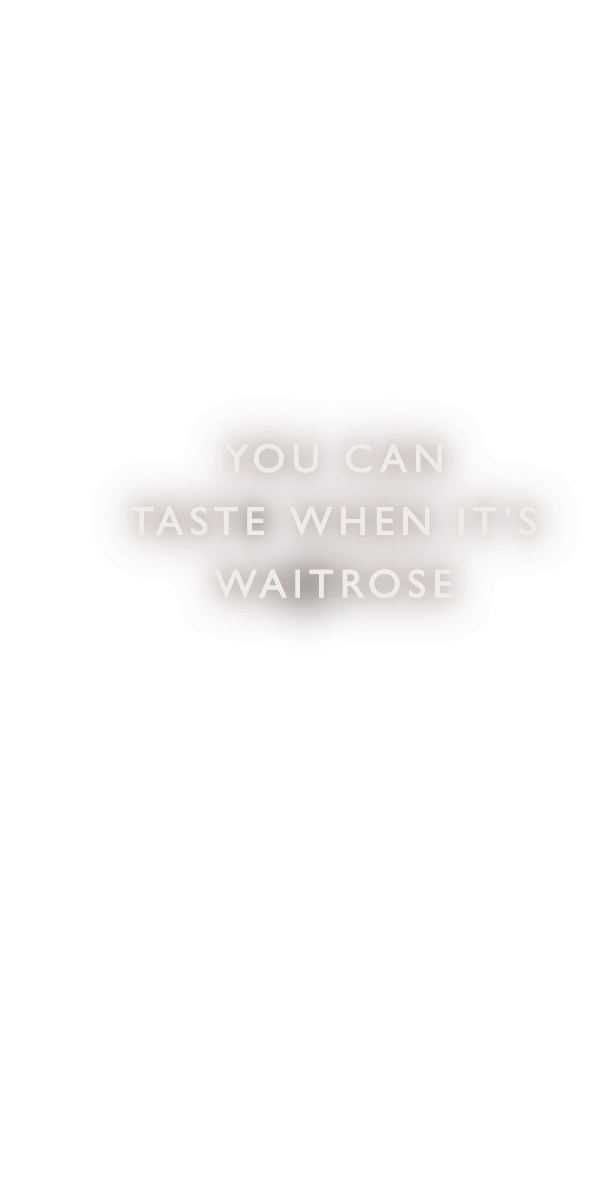
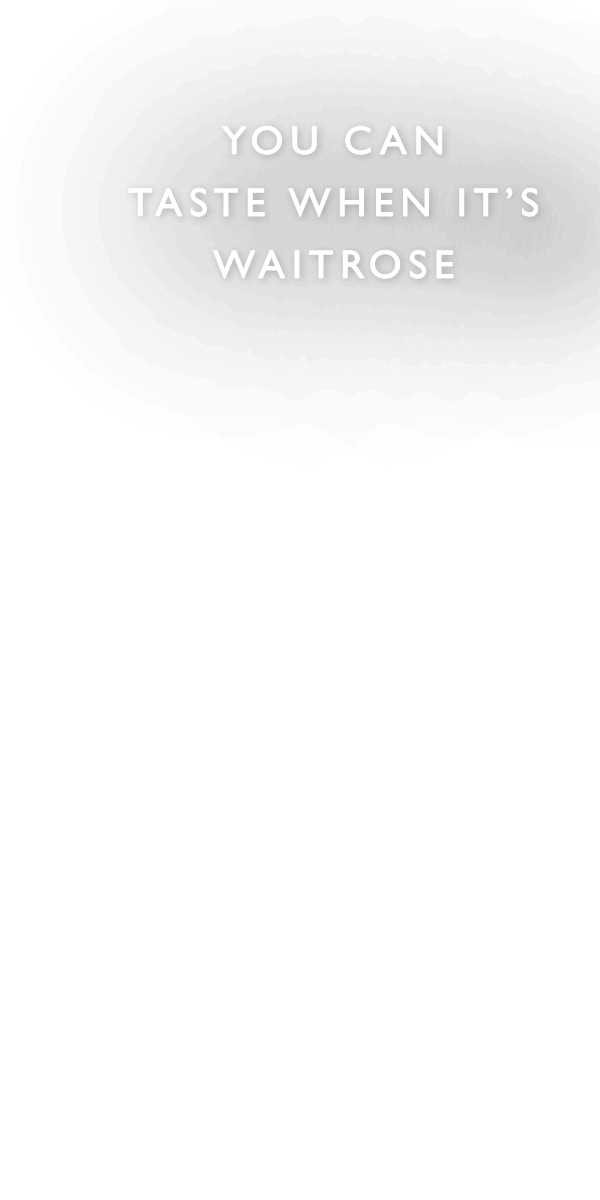
waitrose prview update

Changed region(s): [[0.21, 0.0617, 1.0, 0.2775], [0.21, 0.3392, 0.9, 0.5242]]

diff --git a/clients/Waitrose/Taste_Spring/OliveOil/html5/Waitrose_TasteSpring_OliveOil_300x600/index.html b/clients/Waitrose/Taste_Spring/OliveOil/html5/Waitrose_TasteSpring_OliveOil_300x600/index.html
@@ -19,8 +19,8 @@
         #background {background-color: #e8e8e0; position:absolute; left:0px; top:0px; width:300px; height:600px;}
 
         #imageCont {position:absolute; left:33px; top:0px; width:267px; height:520px; overflow:hidden;}
-        #image2 {position:absolute; left:30px; top:60px; width:267px; height:auto; transform:scale(1.38); transform-origin:50% 50%;}
-        #image1 {position:absolute; left:0px; top:0px; width:267px; height:auto; transform:scale(1.38); transform-origin:50% 50%;}
+        #image2 {position:absolute; left:25px; top:55px; width:282px; height:auto; transform:scale(1.275); transform-origin:50% 50%;}
+        #image1 {position:absolute; left:-40px; top:-70px; width:347px; height:auto; transform:scale(1.38); transform-origin:50% 50%;}
 
         #copy1 {position:absolute; left:0px; top:0px; width:300px; height:600px; opacity:0;}
         #copy2 {position:absolute; left:0px; top:0px; width:300px; height:600px; opacity:0;}
@@ -122,12 +122,12 @@
             //
             tl1 = new TimelineMax({repeat:0, repeatDelay: 5.5});
             //
-            tl1.to('#image2', 10,{scale:1, x: '-=30', y: '-=60'});
+            tl1.to('#image2', 10,{scale:1, x: '-=40', y: '-=55'});
             tl1.to('#logo', 0.5,{opacity:1},'-=9');
             tl1.to('#copy1', 1,{opacity:1},'-=7');
             tl1.to('#copy1', 1,{opacity:0},'-=3');
             tl1.to('#image2', 0.5,{opacity:0},'-=1');
-            tl1.to('#image1', 10,{scale:1},'-=2');
+            tl1.to('#image1', 10,{scale:1, x: '-=40', y: '+=70'},'-=2');
             tl1.to('#copy2', 1,{opacity:1},'-=6');
             tl1.to('#cta', 1,{opacity:1},'-=2');
            //
